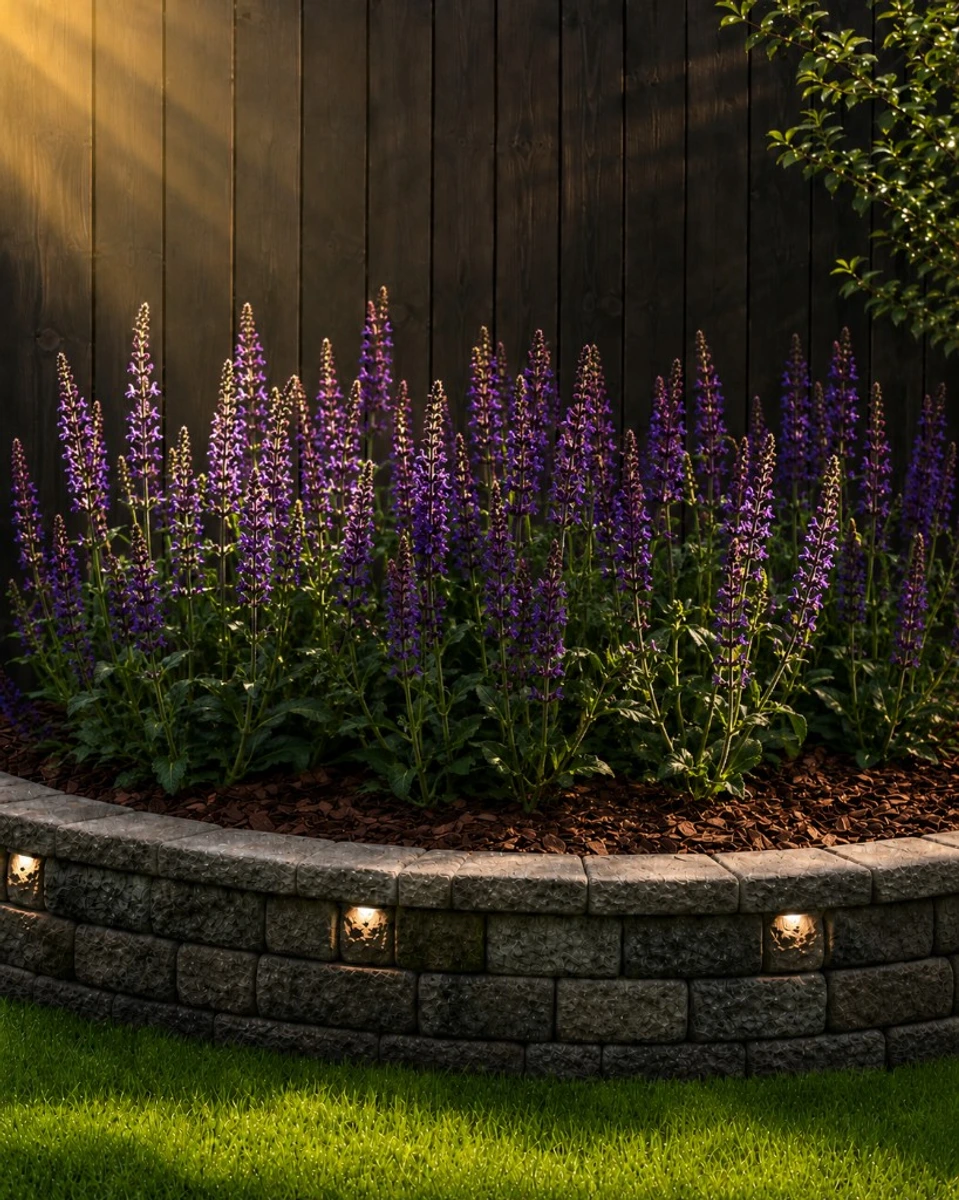
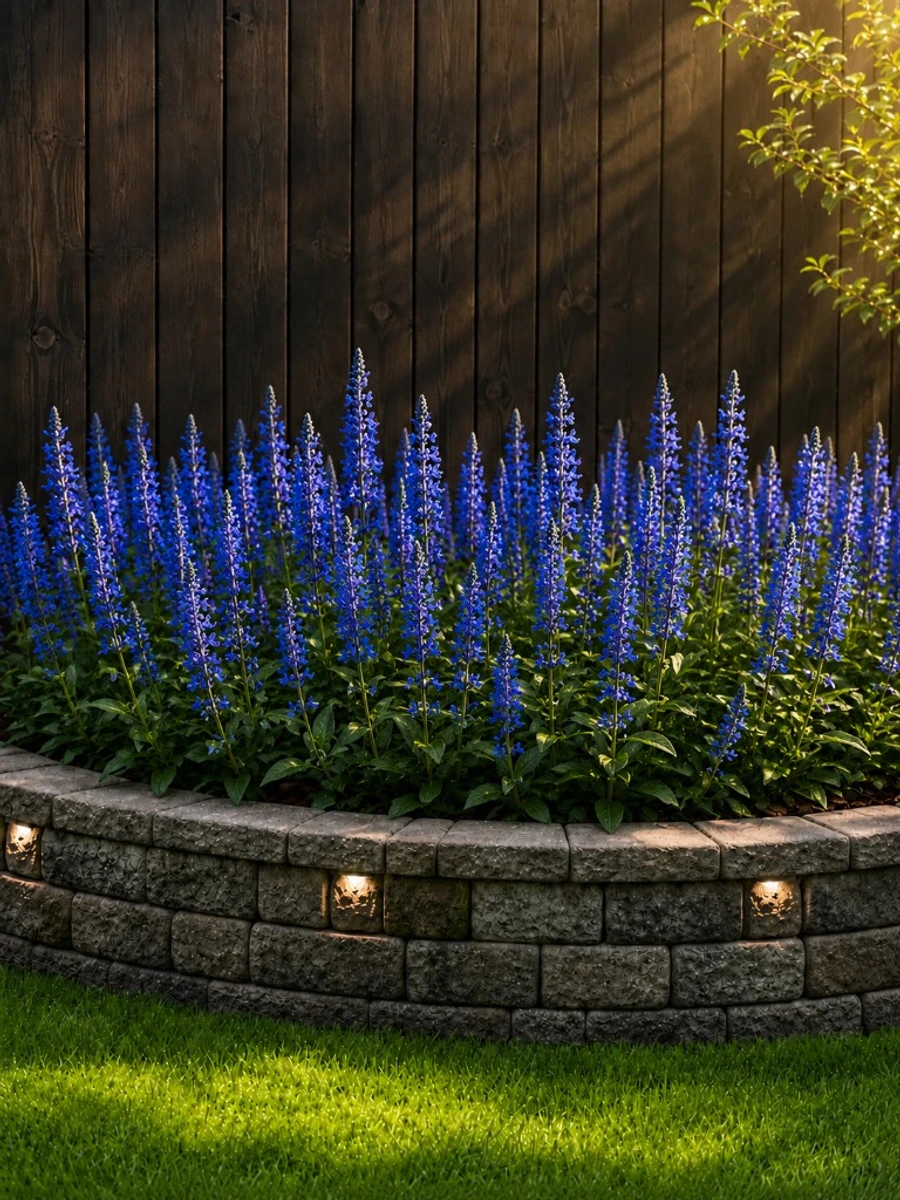
шалфей

diff --git a/assets/js/garden-catalog.js b/assets/js/garden-catalog.js
@@ -244,7 +244,7 @@
     return `<div class="meter"><span>${title}</span><b><span class="valueText">${esc(value)}</span>${unit ? `<span class="unit">${esc(unit.trim())}</span>` : ""}</b>${visual || ""}</div>`;
   }
 
-  const PHOTO_CACHE_V = "20260708e";
+  const PHOTO_CACHE_V = "20260708f";
 
   function photo(p) {
     const src = p.photo ? `${p.photo}?v=${PHOTO_CACHE_V}` : "";